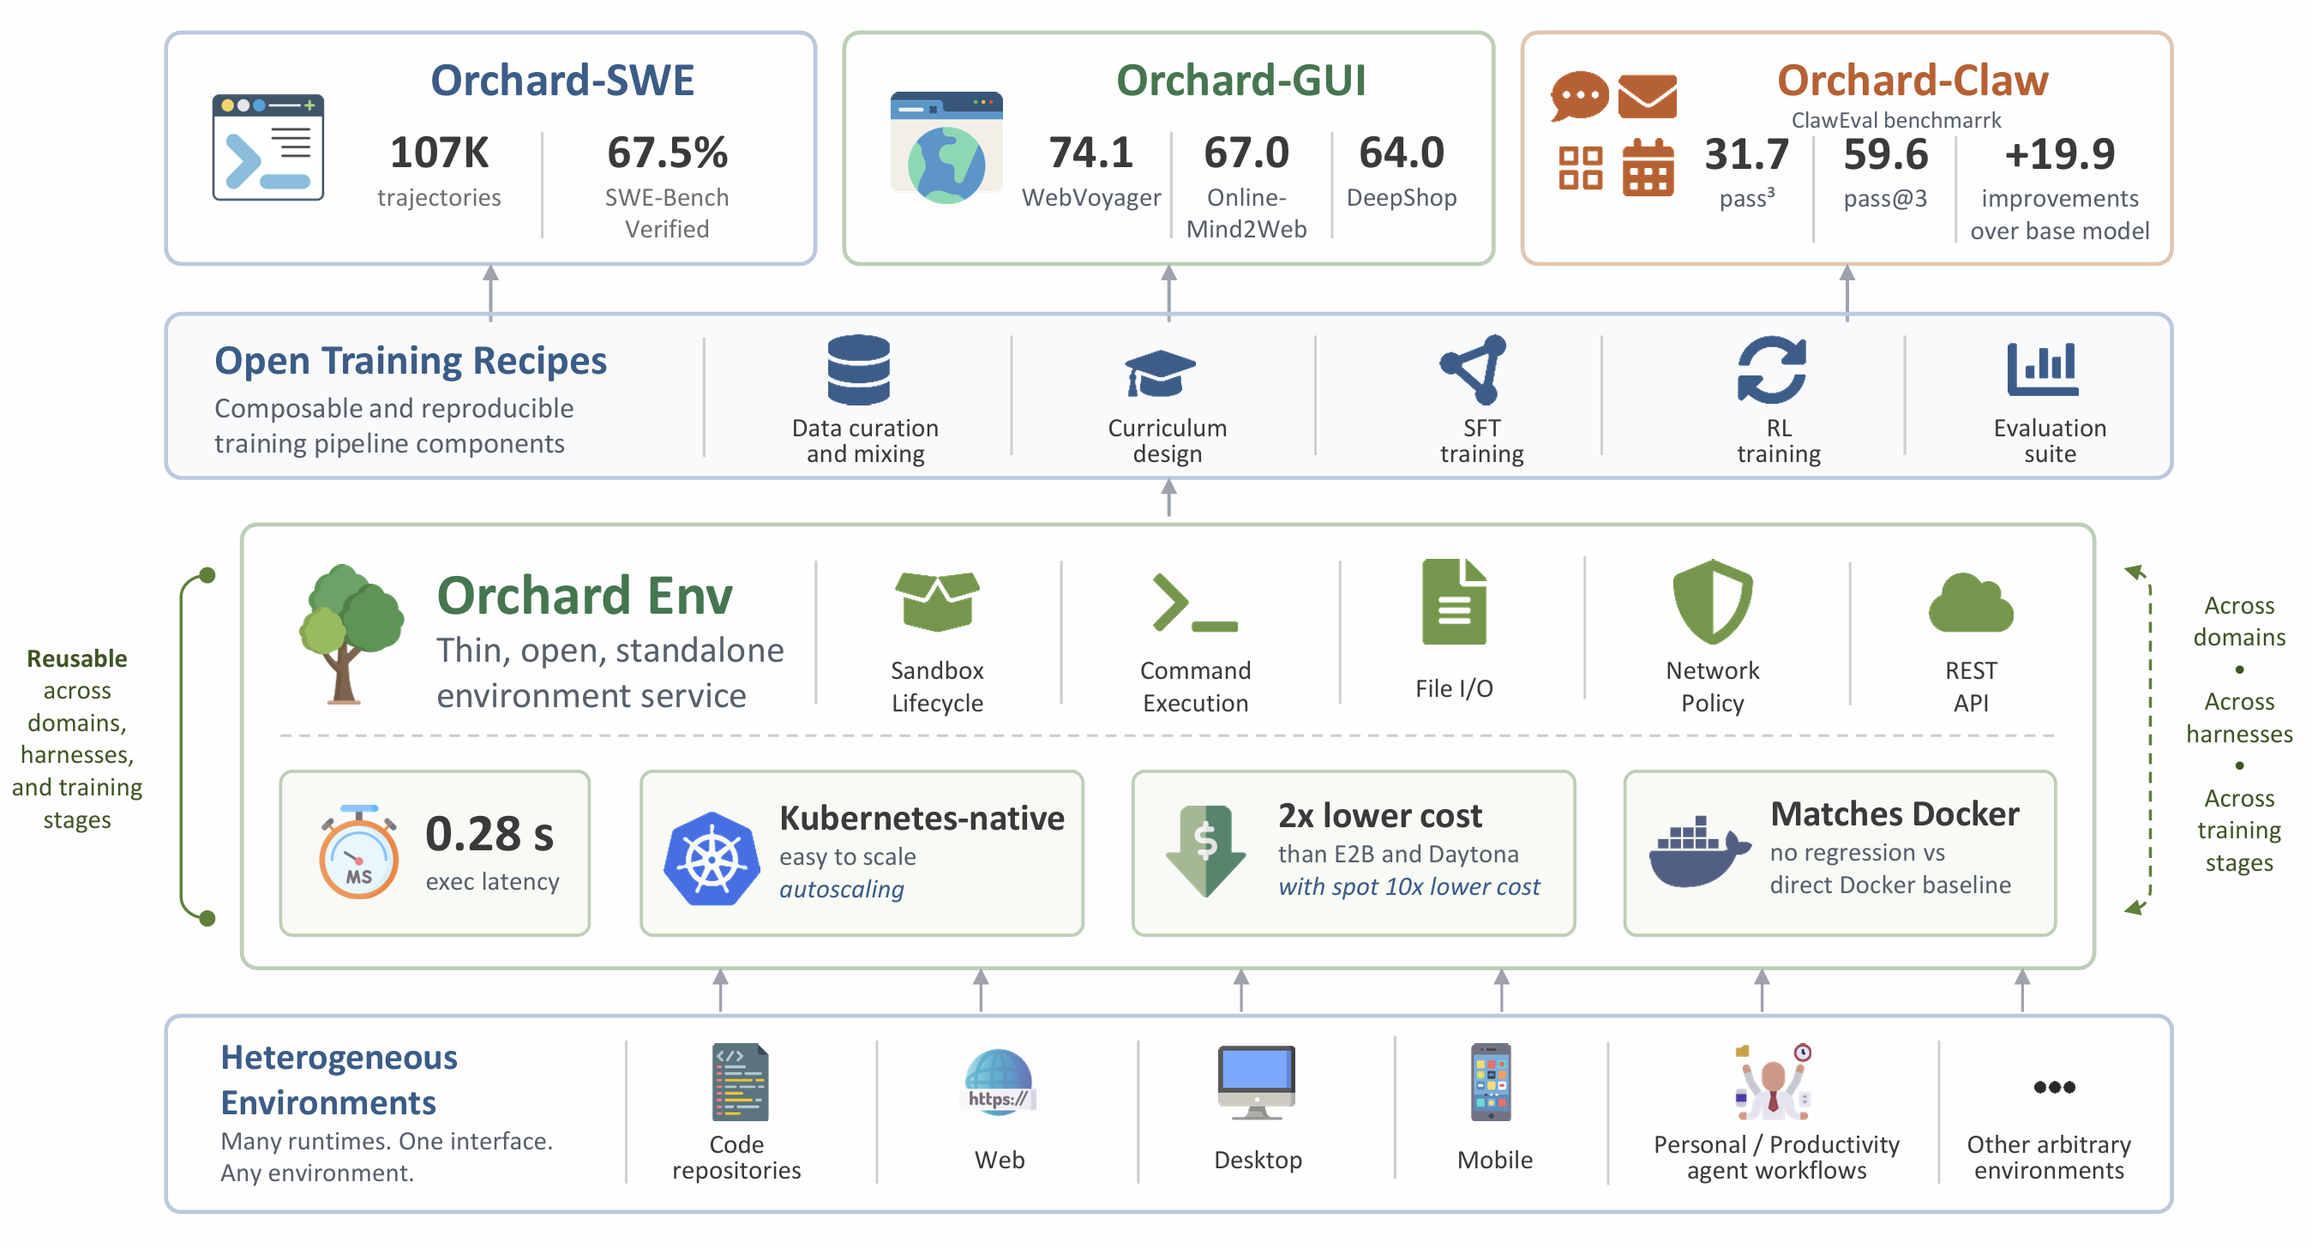
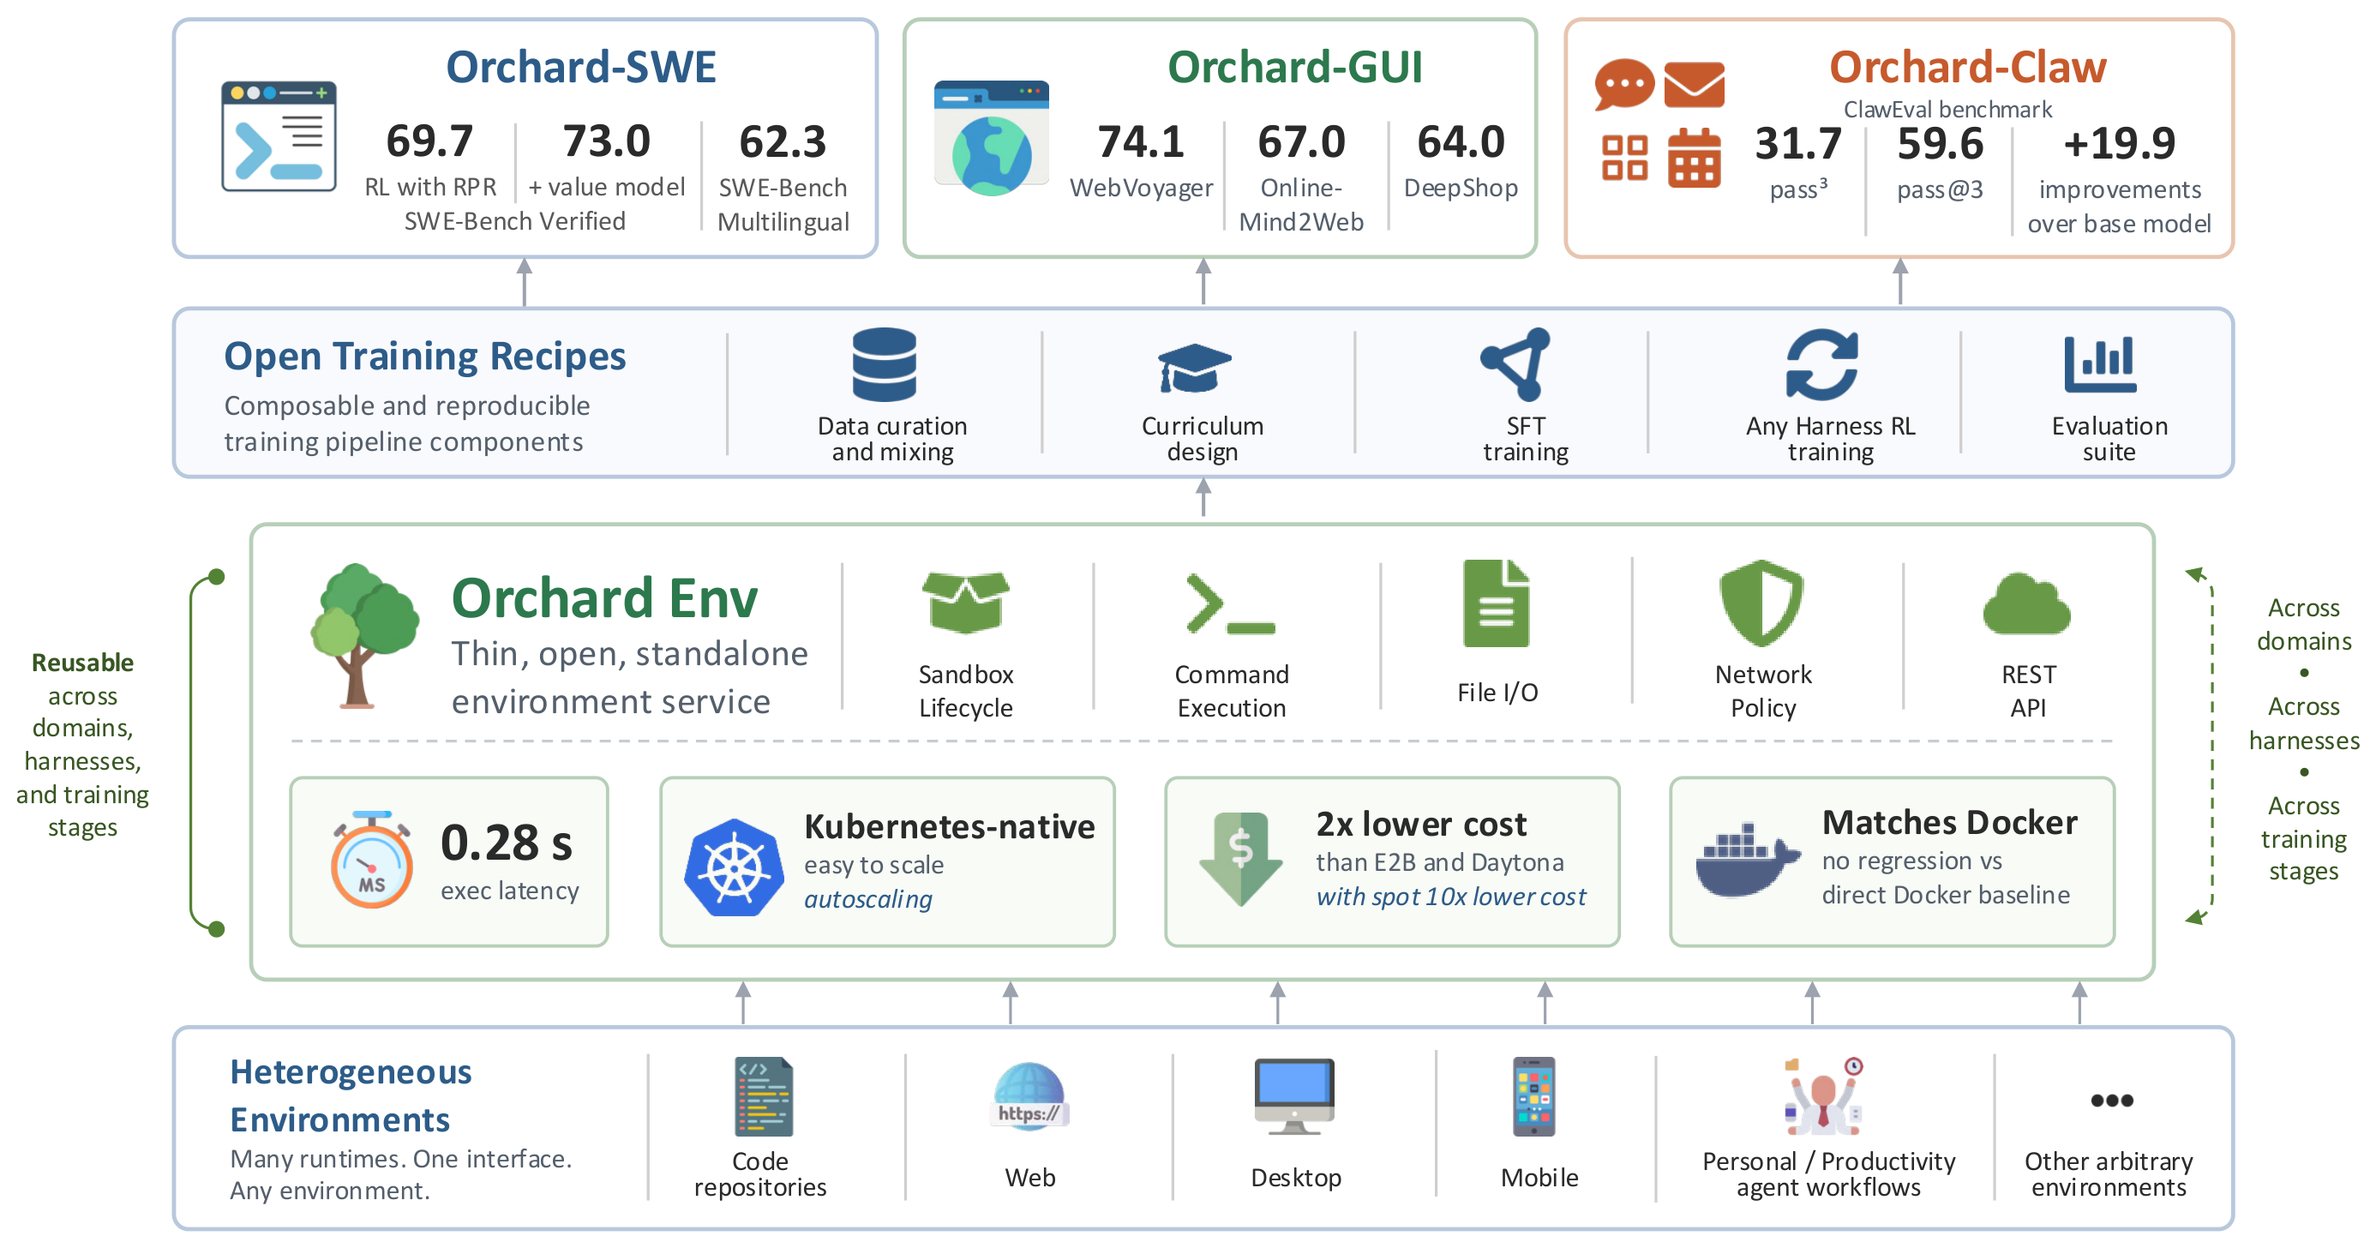
update with latest numbers and recipe.

diff --git a/index.html b/index.html
@@ -4,11 +4,11 @@
   <meta charset="UTF-8" />
   <meta name="viewport" content="width=device-width, initial-scale=1.0" />
   <title>Orchard: An Open-Source Agentic Modeling Framework</title>
-  <meta name="description" content="Orchard is an open-source framework for scalable agentic modeling, built on Orchard Env — a lightweight, harness-agnostic environment service for sandbox lifecycle management across coding, GUI, and personal-assistant agents." />
+  <meta name="description" content="Orchard is an open-source framework for scalable agentic modeling, built on Orchard Env — a thin, Kubernetes-native, harness-agnostic environment service for sandbox lifecycle management across coding, GUI, and personal-assistant agents." />
 
   <!-- Social / Open Graph -->
   <meta property="og:title" content="Orchard: An Open-Source Agentic Modeling Framework" />
-  <meta property="og:description" content="A lightweight, open, harness-agnostic environment layer enabling reusable agentic data, training recipes, and evaluations across domains." />
+  <meta property="og:description" content="A thin, open, harness-agnostic environment layer enabling reusable agentic data, training recipes, and evaluations across domains and harnesses." />
   <meta property="og:type" content="website" />
   <meta property="og:image" content="assets/img/orchard-overview.png" />
   <meta name="twitter:card" content="summary_large_image" />
@@ -73,13 +73,13 @@
     <div class="container">
       <figure class="overview-figure perf-figure">
         <img src="assets/img/orchard-performance.png"
-             alt="Performance comparison scatter plots. Left: Orchard-SWE (30B) reaches 67.5% on SWE-bench Verified, approaching frontier mixture-of-experts systems 10–30× larger. Right: Orchard-GUI (4B) reaches 68.4% average success across WebVoyager, Online-Mind2Web, and DeepShop." />
+             alt="Performance comparison scatter plots. Left: Orchard-SWE (35B-A3B) reaches 73.0% on SWE-bench Verified with value-model reranking (69.7% with RPR-based RL), approaching frontier mixture-of-experts systems 10–30× larger. Right: Orchard-GUI (4B) reaches 68.4% average success across WebVoyager, Online-Mind2Web, and DeepShop." />
         <figcaption>
-          <strong>Performance comparison.</strong> <em>Left:</em> Orchard-SWE (30B) reaches 67.5% on
-          SWE-bench Verified, approaching frontier MoE systems 10–30× larger. <em>Right:</em>
-          Orchard-GUI (4B) achieves 68.4% average success across WebVoyager, Online-Mind2Web, and
-          DeepShop, making it the strongest open-source GUI agent while staying on par with
-          proprietary systems from OpenAI and Google.
+          <strong>Performance comparison.</strong> <em>Left:</em> Orchard-SWE (35B-A3B) reaches 73.0% on
+          SWE-bench Verified with value-model reranking (69.7% with RPR-based RL), approaching frontier
+          MoE systems 10–30× larger. <em>Right:</em> Orchard-GUI (4B) achieves 68.4% average success
+          across WebVoyager, Online-Mind2Web, and DeepShop, making it the strongest open-source GUI
+          agent while staying on par with proprietary systems from OpenAI and Google.
         </figcaption>
       </figure>
     </div>
@@ -90,28 +90,32 @@
     <div class="container narrow">
       <h2 class="section-title">Abstract</h2>
       <p class="abstract">
-        Agentic modeling aims to transform LLMs into autonomous agents capable of solving complex
-        tasks through planning, reasoning, tool use, and multi-turn interaction with environments.
-        Despite major investment, open research remains constrained by infrastructure and training
-        gaps. Many high-performing systems rely on proprietary codebases, models, or services, while
-        most open-source frameworks focus on orchestration and evaluation rather than scalable agent
-        training. We present <strong>Orchard</strong>, an open-source framework for scalable agentic
-        modeling. At its core is <strong>Orchard Env</strong>, a lightweight environment service
-        providing reusable primitives for sandbox lifecycle management across task domains, agent
-        harnesses, and pipeline stages. On top of Orchard Env, we build three agentic modeling
-        recipes. <strong>Orchard-SWE</strong> targets coding agents: we distill 107K trajectories from
-        MiniMax-M2.5 and Qwen3.5-397B, introduce credit-assignment SFT to learn from productive
-        segments of unresolved trajectories, and apply Balanced Adaptive Rollout for RL. Starting from
-        Qwen3-30B-A3B-Thinking, Orchard-SWE achieves 64.3% on SWE-bench Verified after SFT and 67.5%
-        after SFT+RL, setting a new state of the art among open-source models of comparable size.
+        Agentic modeling aims to transform large language models (LLMs) into autonomous agents that
+        can solve complex tasks through planning, reasoning, tool use, and multi-turn interaction with
+        external environments. We present <strong>Orchard</strong>, an open-source framework for
+        scalable agentic modeling. At its core is <strong>Orchard Env</strong>, a thin,
+        Kubernetes-native environment service that provides reusable primitives for sandbox lifecycle
+        management, designed to operate across task domains, agent harnesses, and different training
+        stages. On top of Orchard Env, we build three agentic modeling recipes.
+        <strong>Orchard-SWE</strong> targets software-engineering agents: we introduce
+        credit-assignment SFT to learn from productive segments of unresolved trajectories, and for RL
+        go beyond sparse outcome rewards with a progression of signals — Balanced Adaptive Rollout
+        (BAR) for sample-efficient sparse-reward optimization, plus two denser rewards, on-policy
+        distillation (OPD) and rubric-based process reward (RPR). We further introduce historical
+        experience distillation, which compresses rollouts from past experiments into a small value
+        model that reranks candidates at inference time. On the Qwen3.5-35B-A3B backbone it reaches
+        69.7% with RPR-based RL and 73.0% with best-of-N value-model reranking, setting a new state of
+        the art among open-source methods while approaching frontier systems more than 10× larger.
         <strong>Orchard-GUI</strong> trains a 4B vision-language computer-use agent using only 0.4K
         distilled trajectories and 2.2K open-ended tasks, achieving 74.1%, 67.0%, and 64.0% success
-        rates on WebVoyager, Online-Mind2Web, and DeepShop, respectively — the strongest open-source
-        model while remaining competitive with proprietary systems. <strong>Orchard-Claw</strong>
-        targets personal assistant agents: trained with only 0.2K synthetic tasks, it achieves 59.6%
-        pass@3 on Claw-Eval and 73.9% when paired with a stronger ZeroClaw harness. Collectively, these
-        results show that a lightweight, open, harness-agnostic environment layer enables reusable
-        agentic data, training recipes, and evaluations across domains.
+        rates on WebVoyager, Online-Mind2Web, and DeepShop, respectively (68.4% average) — the
+        strongest open-source model while remaining competitive with proprietary systems from OpenAI
+        and Google Gemini. <strong>Orchard-Claw</strong> targets personal assistant agents for
+        productivity workflows such as email, calendar, and daily tool use: trained with only 0.2K
+        synthetic tasks, it achieves 59.6% pass@3 on Claw-Eval and 73.9% when paired with a stronger
+        ZeroClaw harness. Collectively, these results show that a thin, open, harness-agnostic
+        environment layer enables the reuse of agentic data, training recipes, and evaluation
+        protocols across domains and harnesses.
       </p>
     </div>
   </section>
@@ -131,14 +135,16 @@
             <div class="arch-emoji">⌨</div>
             <h3>Orchard-SWE</h3>
             <p>Coding agents on real repositories</p>
-            <span class="arch-tag">SWE-bench Verified</span>
+            <span class="arch-tag">SWE-bench Verified</span></br>
+            <span class="arch-tag">SWE-bench Multilingual</span>
           </div>
           <div class="arch-card recipe gui">
             <div class="arch-emoji">🖥</div>
             <h3>Orchard-GUI</h3>
             <p>VLM-based computer-use agents</p>
-            <span class="arch-tag">WebVoyager · Online-Mind2Web</span>
-            <span class="arch-tag">DeepShop</span>
+            <span class="arch-tag">WebVoyager</span>
+            <span class="arch-tag">DeepShop</span></br>
+            <span class="arch-tag">Online-Mind2Web</span>
           </div>
           <div class="arch-card recipe claw">
             <div class="arch-emoji">🤖</div>
@@ -157,7 +163,7 @@
             <div class="env-head">
               <div class="arch-emoji">🌳</div>
               <h3>Orchard Env</h3>
-              <p class="env-tagline">A lightweight environment service — reusable primitives for sandbox lifecycle management</p>
+              <p class="env-tagline">A thin, Kubernetes-native environment service — reusable primitives for sandbox lifecycle management</p>
             </div>
             <div class="env-prims">
               <span>create / destroy</span>
@@ -165,7 +171,8 @@
               <span>apply&nbsp;patch</span>
               <span>file I/O</span>
               <span>screenshot &amp; action</span>
-              <span>network isolation</span>
+              <span>network policy</span>
+              <!--span>REST API</span-->
               <span>TTL cleanup</span>
             </div>
           </div>
@@ -206,17 +213,18 @@
             <h3>Coding agents</h3>
           </header>
           <p>
-            Starting from <code>Qwen3-30B-A3B-Thinking</code>, Orchard-SWE distills <strong>107K
-            trajectories</strong> from MiniMax-M2.5 and Qwen3.5-397B, then adds two training ideas:
-            <em>credit-assignment SFT</em> to salvage the productive segments of unresolved
-            trajectories, and <em>Balanced Adaptive Rollout</em> for RL.
+            Orchard-SWE curates <strong>107K trajectories</strong> distilled from MiniMax-M2.5 and
+            Qwen3.5-397B, then adds <em>credit-assignment SFT</em> to salvage productive segments of
+            unresolved trajectories and a progression of denser RL signals — <em>Balanced Adaptive
+            Rollout (BAR)</em>, <em>on-policy distillation (OPD)</em>, and <em>rubric-based process
+            reward (RPR)</em> — plus best-of-N reranking with a small value model.
           </p>
           <ul class="kv">
-            <li><span>After SFT</span><strong>64.3%</strong></li>
-            <li><span>After SFT + RL</span><strong>67.5%</strong></li>
-            <li><span>Benchmark</span><strong>SWE-bench Verified</strong></li>
+            <li><span>SFT + RL <em>(RPR)</em></span><strong>69.7%</strong></li>
+            <li><span>+ value model</span><strong>73.0%</strong></li>
+            <li><span>Backbone</span><strong>Qwen3.5-35B-A3B</strong></li>
           </ul>
-          <p class="note">New state of the art among open-source models of comparable size.</p>
+          <p class="note">New state of the art on SWE-bench Verified among open-source models of comparable size.</p>
         </article>
 
         <!-- GUI -->
@@ -236,7 +244,7 @@
             <li><span>Online-Mind2Web</span><strong>67.0%</strong></li>
             <li><span>DeepShop</span><strong>64.0%</strong></li>
           </ul>
-          <p class="note">Tiny data footprint, served by a Playwright browser backend.</p>
+          <p class="note">Outperforms prior open-source agents and even its 235B teacher model, on a tiny data footprint.</p>
         </article>
 
         <!-- Claw -->
@@ -282,20 +290,43 @@
           <div>
             <h3>Credit-assignment SFT</h3>
             <p>
-              Instead of discarding failed rollouts, Orchard learns from the <em>productive segments</em>
-              of unresolved trajectories — extracting useful supervision from partial progress that
-              standard outcome-filtered SFT throws away.
+              Instead of discarding failed rollouts, Orchard uses retrospective value estimation to
+              extract the <em>productive segments</em> of unresolved trajectories — converting partial
+              progress that standard outcome-filtered SFT throws away into supervision.
             </p>
           </div>
         </div>
         <div class="method">
           <div class="method-num">03</div>
           <div>
-            <h3>Balanced Adaptive Rollout (RL)</h3>
+            <h3>Balanced Adaptive Rollout (BAR)</h3>
             <p>
-              An RL rollout strategy that balances exploration coverage across tasks of varying
-              difficulty, lifting Orchard-SWE from 64.3% to 67.5% on SWE-bench Verified after the
-              SFT stage.
+              A sample-efficient RL rollout strategy for sparse rewards: it adaptively assembles
+              reward-balanced trajectory groups so exploration is spent where the outcome signal is
+              most informative across tasks of varying difficulty.
+            </p>
+          </div>
+        </div>
+        <div class="method">
+          <div class="method-num">04</div>
+          <div>
+            <h3>Denser RL rewards: OPD &amp; RPR</h3>
+            <p>
+              Two dense signals go beyond sparse outcome rewards — <em>on-policy distillation (OPD)</em>
+              supplies a token-level teacher signal at lower rollout cost, and <em>rubric-based process
+              reward (RPR)</em> scores verification quality along the whole trajectory, reaching 69.7%
+              on SWE-bench Verified.
+            </p>
+          </div>
+        </div>
+        <div class="method">
+          <div class="method-num">05</div>
+          <div>
+            <h3>Historical experience distillation</h3>
+            <p>
+              Rollouts accumulated across past RL runs are compressed into a small value model that
+              reranks candidates at inference time (best-of-N), lifting Orchard-SWE to 73.0% on
+              SWE-bench Verified.
             </p>
           </div>
         </div>
@@ -335,8 +366,8 @@
           <p>Calico NetworkPolicy blocks egress by default; each sandbox runs in its own namespace with resource requests equal to limits.</p>
         </div>
         <div class="env-feature">
-          <h4>Scales out</h4>
-          <p>A FastAPI orchestrator with Redis-backed shared state and distributed locks runs many replicas over autoscaling node pools.</p>
+          <h4>Scales out, cheaply</h4>
+          <p>Runtime agent injection and direct Pod-IP routing hit 0.28&nbsp;s average exec latency and sustain a 1,000-sandbox stress test at 100% success — at ~2× lower cost than E2B and Daytona (10× with spot).</p>
         </div>
       </div>
 
@@ -373,11 +404,17 @@
           </thead>
           <tbody>
             <tr>
-              <td rowspan="2"><span class="recipe-chip swe">SWE</span></td>
+              <td rowspan="5"><span class="recipe-chip swe">SWE</span></td>
               <td rowspan="2">Qwen3-30B-A3B-Thinking</td>
               <td>SWE-bench Verified <em>(SFT)</em></td><td class="num">64.3%</td>
             </tr>
             <tr><td>SWE-bench Verified <em>(SFT+RL)</em></td><td class="num">67.5%</td></tr>
+            <tr>
+              <td rowspan="3">Qwen3.5-35B-A3B</td>
+              <td>SWE-bench Verified <em>(RPR-RL)</em></td><td class="num">69.7%</td>
+            </tr>
+            <tr><td>SWE-bench Verified <em>(+ value model)</em></td><td class="num">73.0%</td></tr>
+            <tr><td>SWE-bench Multilingual <em>(RPR-RL)</em></td><td class="num">62.3%</td></tr>
             <tr>
               <td rowspan="3"><span class="recipe-chip gui">GUI</span></td>
               <td rowspan="3">Qwen3-VL-4B-Thinking</td>

diff --git a/assets/css/style.css b/assets/css/style.css
@@ -13,7 +13,7 @@
   --radius: 16px;
   --shadow: 0 1px 2px rgba(20,30,55,.06), 0 8px 28px rgba(20,30,55,.07);
   --shadow-lg: 0 12px 40px rgba(20,30,55,.12);
-  --maxw: 1080px;
+  --maxw: 1160px;
 }
 
 * { box-sizing: border-box; }
@@ -31,7 +31,7 @@ a:hover { text-decoration: underline; }
 code, pre { font-family: 'JetBrains Mono', ui-monospace, monospace; }
 
 .container { max-width: var(--maxw); margin: 0 auto; padding: 0 24px; }
-.container.narrow { max-width: 800px; }
+.container.narrow { max-width: 860px; }
 
 /* ---------------- HERO ---------------- */
 .hero {
